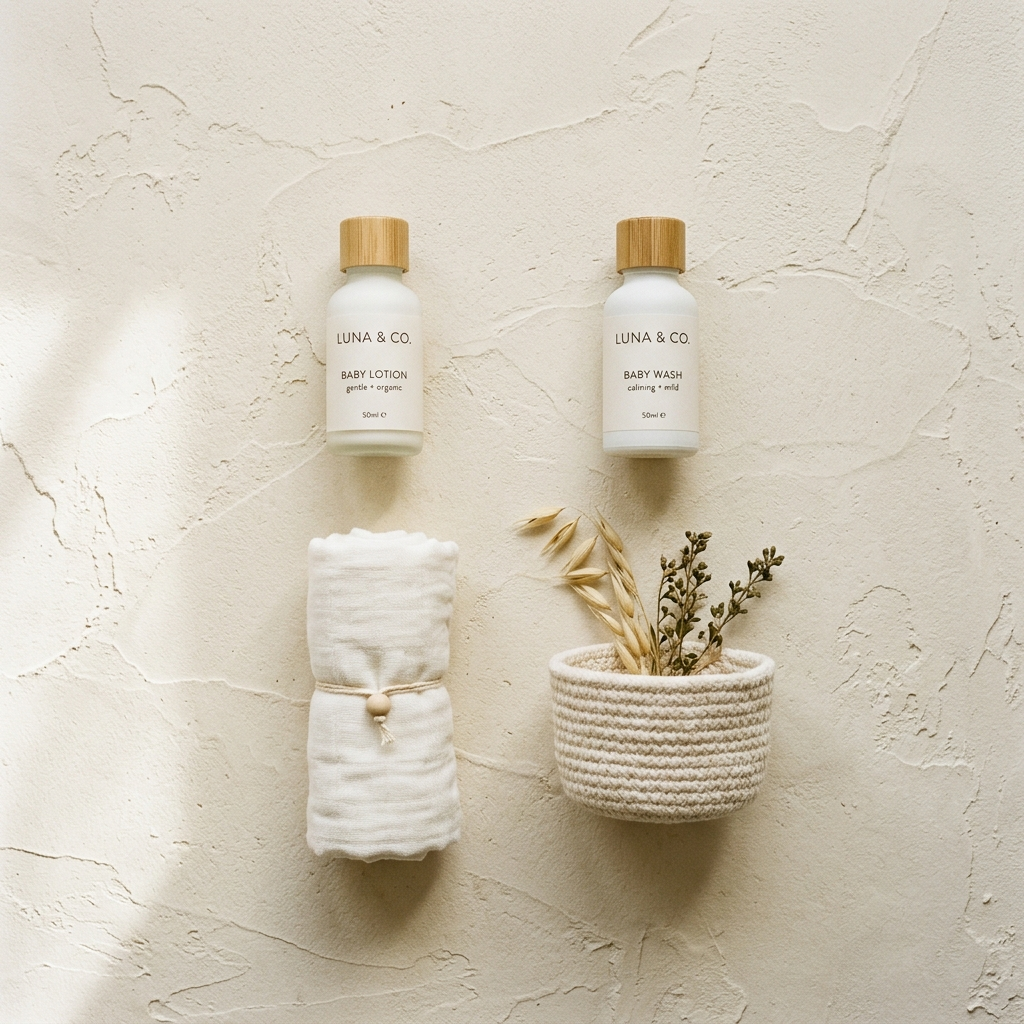
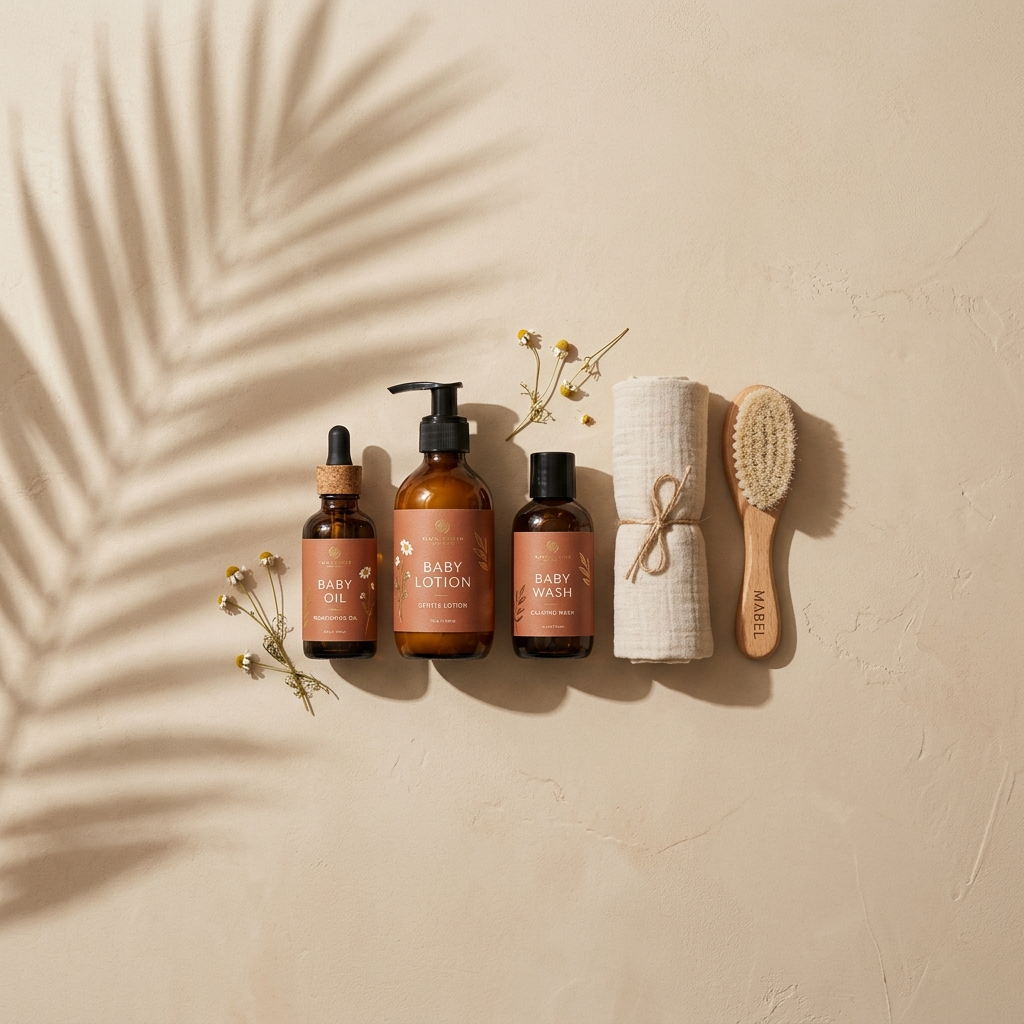
feat: implement product display sections and add new collection assets

diff --git a/src/app/components/kids-shoes-section/kids-shoes-section.component.ts b/src/app/components/kids-shoes-section/kids-shoes-section.component.ts
@@ -14,64 +14,42 @@ import { resolveImageUrl } from '../../core/utils/image-resolver';
   imports: [CommonModule, RouterModule],
   template: `
     <section
-      class="w-full bg-[#FAF6F0] border-t border-[#E8DDD0] py-6 flex items-center justify-center z-10 overflow-hidden select-none"
+      id="kids-shoes"
+      class="relative w-full py-6 px-6 md:px-12 lg:px-24 z-10 overflow-hidden bg-transparent"
     >
-      <div class="w-full px-6 md:px-12">
-        <div class="bb-trust">
+      <div class="w-full section-container relative z-10">
+        
+        <!-- Wide Expansive Banner Panel with full-bleed background -->
+        <div class="bb-strip shadow-2xl overflow-hidden group">
+          <!-- Parallax & Hover Zoom background image -->
+          <div 
+            class="bb-strip-bg absolute inset-0 z-0 bg-cover bg-center transition-transform duration-700 ease-out group-hover:scale-105" 
+            style="background-image: url('/products/kids_shoes_collection_perfect.png');"
+          ></div>
           
-          <!-- Item 1: Fast & Reliable Delivery -->
-          <div class="bb-trust-item">
-            <div class="bb-trust-icon">
-              <svg class="w-3.5 h-3.5 text-[#C4633A]" fill="none" stroke="currentColor" stroke-width="1.6" viewBox="0 0 24 24" xmlns="http://www.w3.org/2000/svg">
-                <path stroke-linecap="round" stroke-linejoin="round" d="M8.25 18.75a1.5 1.5 0 01-3 0m3 0a1.5 1.5 0 00-3 0m3 0h6m-9 0H3.375a1.125 1.125 0 01-1.125-1.125V14.25m17.25 4.5a1.5 1.5 0 01-3 0m3 0a1.5 1.5 0 00-3 0m3 0h1.125c.621 0 1.129-.504 1.09-1.124a17.902 17.902 0 00-3.213-9.193 2.056 2.056 0 00-1.58-.86H14.25M16.5 18.75h-2.25m0-11.177v11.177m0-11.177h-1.197a1.875 1.875 0 00-1.582.805l-3 4.2a1.875 1.875 0 00-.281.932v4.062a1.125 1.125 0 001.125 1.125H9.75M8.25 14.25h1.5M16.5 14.25h1.5" />
-              </svg>
-            </div>
-            <div>
-              <p class="bb-trust-title">Fast &amp; Reliable Delivery</p>
-              <p class="bb-trust-sub">Across Egypt</p>
-            </div>
+          <div class="bb-strip-content z-20">
+            <span class="bb-label">Collection / Kids Active</span>
+            <h2 class="bb-h2 bb-serif">Active <br/>&amp; Play</h2>
+            <p class="bb-tagline">Lightweight, ergonomic support for little feet in motion.</p>
+            <a 
+              [routerLink]="['/products']" 
+              [queryParams]="{ target: 'Kids', subcategory: 'shoes' }"
+              class="bb-link"
+            >
+              <span>Explore Kids</span>
+              <span>→</span>
+            </a>
           </div>
 
-          <!-- Item 2: Premium Quality -->
-          <div class="bb-trust-item">
-            <div class="bb-trust-icon">
-              <svg class="w-3.5 h-3.5 text-[#C4633A]" fill="none" stroke="currentColor" stroke-width="1.6" viewBox="0 0 24 24" xmlns="http://www.w3.org/2000/svg">
-                <path stroke-linecap="round" stroke-linejoin="round" d="M9 12.75L11.25 15 15 9.75M21 12c0 1.268-.63 2.39-1.593 3.068a3.745 3.745 0 01-1.043 3.296 3.745 3.745 0 01-3.296 1.043A3.745 3.745 0 0110 21c-1.268 0-2.39-.63-3.068-1.593a3.746 3.746 0 01-3.296-1.043 3.745 3.745 0 01-1.043-3.296A3.745 3.745 0 013 12c0-1.268.63-2.39 1.593-3.068a3.745 3.745 0 011.043-3.296 3.746 3.746 0 013.296-1.043A3.746 3.746 0 0112 3c1.268 0 2.39.63 3.068 1.593a3.746 3.746 0 013.296 1.043 3.746 3.746 0 011.043 3.296A3.745 3.745 0 0121 12z" />
-              </svg>
-            </div>
-            <div>
-              <p class="bb-trust-title">Premium Quality</p>
-              <p class="bb-trust-sub">Curated with care</p>
-            </div>
-          </div>
-
-          <!-- Item 3: Safe for Your Little One -->
-          <div class="bb-trust-item">
-            <div class="bb-trust-icon">
-              <svg class="w-3.5 h-3.5 text-[#C4633A]" fill="none" stroke="currentColor" stroke-width="1.6" viewBox="0 0 24 24" xmlns="http://www.w3.org/2000/svg">
-                <path stroke-linecap="round" stroke-linejoin="round" d="M9 12.75L11.25 15 15 9.75m-3-7.036A11.959 11.959 0 013.598 6 11.99 11.99 0 003 9.749c0 5.592 3.824 10.29 9 11.623 5.176-1.332 9-6.03 9-11.622 0-1.31-.21-2.57-.599-3.75A11.952 11.952 0 0112 2.744z" />
-              </svg>
-            </div>
-            <div>
-              <p class="bb-trust-title">Safe for Your Little One</p>
-              <p class="bb-trust-sub">Trusted &amp; tested</p>
-            </div>
-          </div>
-
-          <!-- Item 4: Easy Returns -->
-          <div class="bb-trust-item">
-            <div class="bb-trust-icon">
-              <svg class="w-3.5 h-3.5 text-[#C4633A]" fill="none" stroke="currentColor" stroke-width="1.6" viewBox="0 0 24 24" xmlns="http://www.w3.org/2000/svg">
-                <path stroke-linecap="round" stroke-linejoin="round" d="M20.25 7.5l-.625 10.632a2.25 2.25 0 01-2.247 2.118H6.622a2.25 2.25 0 01-2.247-2.118L3.75 7.5M10 11.25h4M3.375 7.5h17.25c.621 0 1.125-.504 1.125-1.125v-1.5c0-.621-.504-1.125-1.125-1.125H3.375c-.621 0-1.125.504-1.125 1.125v1.5c0 .621.504 1.125 1.125 1.125z" />
-              </svg>
-            </div>
-            <div>
-              <p class="bb-trust-title">Easy Returns</p>
-              <p class="bb-trust-sub">Hassle-free</p>
-            </div>
+          <div class="bb-disc-badge z-20">
+            <span class="bb-disc-up">Kids</span>
+            <span class="bb-disc-pct">PLAY</span>
+            <span class="bb-disc-off">Active</span>
+            <span class="text-[11px] text-[#C4633A] mt-0.5 block">⚡</span>
           </div>
 
         </div>
+
       </div>
     </section>
   `,
@@ -80,29 +58,59 @@ import { resolveImageUrl } from '../../core/utils/image-resolver';
       display: block;
       width: 100%;
     }
-    .bb-trust { 
-      display: grid; 
-      grid-template-columns: repeat(4, 1fr); 
-      gap: 16px; 
-      background: transparent;
+    .bb-strip {
+      position: relative; width: 100%; min-height: 280px; overflow: hidden;
+      display: flex; align-items: center;
+      border-radius: 2.5rem;
+      border: 0.5px solid #E8DDD0;
     }
+    .bb-strip-bg {
+      position: absolute;
+      top: -15%;
+      bottom: -15%;
+      left: 0;
+      right: 0;
+      background-size: cover;
+      background-position: center;
+    }
+    .bb-strip-content { position: relative; z-index: 2; padding: 48px 52px; }
     @media (max-width: 768px) {
-      .bb-trust {
-        grid-template-columns: 1fr 1fr;
-        gap: 16px;
+      .bb-strip-content {
+        padding: 32px 24px;
       }
     }
-    .bb-trust-item { display: flex; align-items: center; gap: 10px; }
-    .bb-trust-icon { 
-      width: 32px; height: 32px; 
-      background: #EDD9C8; 
-      border-radius: 50%; 
-      display: flex; align-items: center; justify-content: center; 
-      flex-shrink: 0; 
-      border: 0.5px solid rgba(196,177,152,0.4);
+    .bb-label { font-size: 10px; letter-spacing: 0.18em; text-transform: uppercase; color: #C4633A; font-weight: 600; margin-bottom: 8px; display: block; }
+    .bb-serif { font-family: 'Playfair Display', 'Cormorant Garamond', serif; }
+    .bb-h2 { font-size: 32px; font-weight: 600; line-height: 1.15; margin-bottom: 8px; color: #2E2118; text-transform: uppercase; }
+    @media (max-width: 768px) {
+      .bb-h2 {
+        font-size: 24px;
+      }
     }
-    .bb-trust-title { font-size: 10.5px; font-weight: 500; color: #2E2118; margin: 0; line-height: 1.3; }
-    .bb-trust-sub { font-size: 9px; color: #8C7B6B; margin: 0; font-weight: 300; }
+    .bb-tagline { font-size: 12px; color: #8C7B6B; margin-bottom: 16px; font-weight: 300; max-width: 320px; }
+    .bb-link { font-size: 10px; text-transform: uppercase; letter-spacing: 0.14em; color: #C4633A; font-weight: 600; cursor: pointer; border: none; background: none; font-family: 'Inter',sans-serif; padding: 0; display: inline-flex; align-items: center; gap: 4px; text-decoration: none; border-bottom: 1px solid transparent; transition: all 0.3s; }
+    .bb-link:hover { border-bottom-color: #C4633A; }
+    
+    .bb-disc-badge {
+      position: absolute; right: 52px; top: 50%; transform: translateY(-50%); z-index: 3;
+      background: rgba(250,246,240,0.9); border: 0.5px solid #E8DDD0; border-radius: 20px;
+      padding: 16px 20px; text-align: center; min-width: 90px;
+      box-shadow: 0 10px 30px rgba(150,110,80,0.08);
+    }
+    @media (max-width: 768px) {
+      .bb-disc-badge {
+        position: relative;
+        right: auto;
+        top: auto;
+        transform: none;
+        margin-left: 24px;
+        margin-bottom: 24px;
+        display: inline-block;
+      }
+    }
+    .bb-disc-up { font-size: 8px; text-transform: uppercase; letter-spacing: 0.1em; color: #8C7B6B; display: block; margin-bottom: 2px; }
+    .bb-disc-pct { font-size: 24px; font-weight: 600; color: #C4633A; font-family: 'Playfair Display', 'Cormorant Garamond', serif; line-height: 1; letter-spacing: 0.05em; }
+    .bb-disc-off { font-size: 8px; text-transform: uppercase; letter-spacing: 0.1em; color: #8C7B6B; display: block; margin-top: 2px; }
   `]
 })
 export class KidsShoesSectionComponent implements OnInit {
@@ -112,6 +120,13 @@ export class KidsShoesSectionComponent implements OnInit {
   private productService = inject(ProductService);
 
   ngOnInit(): void {
-    this.productService.getProducts({ pageSize: 10 }).subscribe();
+    this.productService.getProducts({ pageSize: 100 }).subscribe(res => {
+      if (res.isSuccess && res.data && res.data.items) {
+        this.sneakerProduct = res.data.items.find(p => 
+          p.mainCategory?.toLowerCase() === 'kids' && 
+          p.subCategory?.toLowerCase() === 'shoes'
+        );
+      }
+    });
   }
 }

diff --git a/src/app/components/storefront-landing/storefront-landing.component.ts b/src/app/components/storefront-landing/storefront-landing.component.ts
@@ -37,6 +37,67 @@ gsap.registerPlugin(ScrollTrigger);
       <app-clothing-section class="w-full"></app-clothing-section>
       
       <app-kids-shoes-section class="w-full"></app-kids-shoes-section>
+
+      <!-- Trust Benefits Strip -->
+      <section class="w-full bg-[#FAF6F0] border-t border-[#E8DDD0] py-12 flex items-center justify-center z-10 overflow-hidden select-none pointer-events-auto">
+        <div class="w-full px-6 md:px-12 lg:px-24">
+          <div class="bb-trust grid grid-cols-1 sm:grid-cols-2 lg:grid-cols-4 gap-8">
+            
+            <!-- Item 1: Fast & Reliable Delivery -->
+            <div class="bb-trust-item flex items-center gap-4">
+              <div class="bb-trust-icon w-10 h-10 bg-[#EDD9C8] rounded-full flex items-center justify-center flex-shrink-0 border border-[#E8DDD0]">
+                <svg class="w-5 h-5 text-[#C4633A]" fill="none" stroke="currentColor" stroke-width="1.6" viewBox="0 0 24 24" xmlns="http://www.w3.org/2000/svg">
+                  <path stroke-linecap="round" stroke-linejoin="round" d="M8.25 18.75a1.5 1.5 0 01-3 0m3 0a1.5 1.5 0 00-3 0m3 0h6m-9 0H3.375a1.125 1.125 0 01-1.125-1.125V14.25m17.25 4.5a1.5 1.5 0 01-3 0m3 0a1.5 1.5 0 00-3 0m3 0h1.125c.621 0 1.129-.504 1.09-1.124a17.902 17.902 0 00-3.213-9.193 2.056 2.056 0 00-1.58-.86H14.25M16.5 18.75h-2.25m0-11.177v11.177m0-11.177h-1.197a1.875 1.875 0 00-1.582.805l-3 4.2a1.875 1.875 0 00-.281.932v4.062a1.125 1.125 0 001.125 1.125H9.75M8.25 14.25h1.5M16.5 14.25h1.5" />
+                </svg>
+              </div>
+              <div>
+                <p class="bb-trust-title font-bold text-[10.5px] text-[#2E2118] uppercase tracking-wide">Fast &amp; Reliable Delivery</p>
+                <p class="bb-trust-sub text-[9px] text-[#8C7B6B] font-light">Across Egypt</p>
+              </div>
+            </div>
+
+            <!-- Item 2: Premium Quality -->
+            <div class="bb-trust-item flex items-center gap-4">
+              <div class="bb-trust-icon w-10 h-10 bg-[#EDD9C8] rounded-full flex items-center justify-center flex-shrink-0 border border-[#E8DDD0]">
+                <svg class="w-5 h-5 text-[#C4633A]" fill="none" stroke="currentColor" stroke-width="1.6" viewBox="0 0 24 24" xmlns="http://www.w3.org/2000/svg">
+                  <path stroke-linecap="round" stroke-linejoin="round" d="M9 12.75L11.25 15 15 9.75M21 12c0 1.268-.63 2.39-1.593 3.068a3.745 3.745 0 01-1.043 3.296 3.745 3.745 0 01-3.296 1.043A3.745 3.745 0 0110 21c-1.268 0-2.39-.63-3.068-1.593a3.746 3.746 0 01-3.296-1.043 3.745 3.745 0 01-1.043-3.296A3.745 3.745 0 013 12c0-1.268.63-2.39 1.593-3.068a3.745 3.745 0 011.043-3.296 3.746 3.746 0 013.296-1.043A3.746 3.746 0 0112 3c1.268 0 2.39.63 3.068 1.593a3.746 3.746 0 013.296 1.043 3.746 3.746 0 011.043 3.296A3.745 3.745 0 0121 12z" />
+                </svg>
+              </div>
+              <div>
+                <p class="bb-trust-title font-bold text-[10.5px] text-[#2E2118] uppercase tracking-wide">Premium Quality</p>
+                <p class="bb-trust-sub text-[9px] text-[#8C7B6B] font-light">Curated with care</p>
+              </div>
+            </div>
+
+            <!-- Item 3: Safe for Your Little One -->
+            <div class="bb-trust-item flex items-center gap-4">
+              <div class="bb-trust-icon w-10 h-10 bg-[#EDD9C8] rounded-full flex items-center justify-center flex-shrink-0 border border-[#E8DDD0]">
+                <svg class="w-5 h-5 text-[#C4633A]" fill="none" stroke="currentColor" stroke-width="1.6" viewBox="0 0 24 24" xmlns="http://www.w3.org/2000/svg">
+                  <path stroke-linecap="round" stroke-linejoin="round" d="M9 12.75L11.25 15 15 9.75m-3-7.036A11.959 11.959 0 013.598 6 11.99 11.99 0 003 9.749c0 5.592 3.824 10.29 9 11.623 5.176-1.332 9-6.03 9-11.622 0-1.31-.21-2.57-.599-3.75A11.952 11.952 0 0112 2.744z" />
+                </svg>
+              </div>
+              <div>
+                <p class="bb-trust-title font-bold text-[10.5px] text-[#2E2118] uppercase tracking-wide">Safe for Your Little One</p>
+                <p class="bb-trust-sub text-[9px] text-[#8C7B6B] font-light">Trusted &amp; tested</p>
+              </div>
+            </div>
+
+            <!-- Item 4: Easy Returns -->
+            <div class="bb-trust-item flex items-center gap-4">
+              <div class="bb-trust-icon w-10 h-10 bg-[#EDD9C8] rounded-full flex items-center justify-center flex-shrink-0 border border-[#E8DDD0]">
+                <svg class="w-5 h-5 text-[#C4633A]" fill="none" stroke="currentColor" stroke-width="1.6" viewBox="0 0 24 24" xmlns="http://www.w3.org/2000/svg">
+                  <path stroke-linecap="round" stroke-linejoin="round" d="M20.25 7.5l-.625 10.632a2.25 2.25 0 01-2.247 2.118H6.622a2.25 2.25 0 01-2.247-2.118L3.75 7.5M10 11.25h4M3.375 7.5h17.25c.621 0 1.125-.504 1.125-1.125v-1.5c0-.621-.504-1.125-1.125-1.125H3.375c-.621 0-1.125.504-1.125 1.125v1.5c0 .621.504 1.125 1.125 1.125z" />
+                </svg>
+              </div>
+              <div>
+                <p class="bb-trust-title font-bold text-[10.5px] text-[#2E2118] uppercase tracking-wide">Easy Returns</p>
+                <p class="bb-trust-sub text-[9px] text-[#8C7B6B] font-light">Hassle-free</p>
+              </div>
+            </div>
+
+          </div>
+        </div>
+      </section>
     </div>
   `
 })
@@ -189,8 +250,56 @@ export class StorefrontLandingComponent implements OnInit, AfterViewInit {
         }
       );
 
-      // 4. Trust Items (Kids Shoes Section) Staggered Reveal
-      gsap.fromTo('app-kids-shoes-section .bb-trust-item',
+      // 4. Kids Shoes Section Wide Strip Entrance & Parallax Background
+      gsap.fromTo('app-kids-shoes-section .bb-strip',
+        { y: 60, opacity: 0, scale: 0.97 },
+        {
+          y: 0,
+          opacity: 1,
+          scale: 1,
+          duration: 1.2,
+          ease: 'power3.out',
+          scrollTrigger: {
+            trigger: 'app-kids-shoes-section',
+            start: 'top 85%',
+            toggleActions: 'play none none none'
+          }
+        }
+      );
+
+      gsap.fromTo('app-kids-shoes-section .bb-strip-bg',
+        { yPercent: -12 },
+        {
+          yPercent: 12,
+          ease: 'none',
+          scrollTrigger: {
+            trigger: 'app-kids-shoes-section',
+            start: 'top bottom',
+            end: 'bottom top',
+            scrub: true
+          }
+        }
+      );
+
+      gsap.fromTo('app-kids-shoes-section .bb-disc-badge',
+        { scale: 0.3, opacity: 0, rotation: -12 },
+        {
+          scale: 1,
+          opacity: 1,
+          rotation: 0,
+          duration: 1.4,
+          ease: 'elastic.out(1, 0.75)',
+          delay: 0.25,
+          scrollTrigger: {
+            trigger: 'app-kids-shoes-section',
+            start: 'top 80%',
+            toggleActions: 'play none none none'
+          }
+        }
+      );
+
+      // 5. Trust Items Staggered Reveal at the bottom
+      gsap.fromTo('.bb-trust .bb-trust-item',
         { y: 30, opacity: 0 },
         {
           y: 0,
@@ -199,7 +308,7 @@ export class StorefrontLandingComponent implements OnInit, AfterViewInit {
           stagger: 0.15,
           ease: 'power2.out',
           scrollTrigger: {
-            trigger: 'app-kids-shoes-section',
+            trigger: '.bb-trust',
             start: 'top 90%',
             toggleActions: 'play none none none'
           }

diff --git a/src/app/components/bags-shoes-section/bags-shoes-section.component.ts b/src/app/components/bags-shoes-section/bags-shoes-section.component.ts
@@ -24,7 +24,7 @@ import { resolveImageUrl } from '../../core/utils/image-resolver';
           <!-- Parallax & Hover Zoom background image -->
           <div 
             class="bb-strip-bg absolute inset-0 z-0 bg-cover bg-center transition-transform duration-700 ease-out group-hover:scale-105" 
-            style="background-image: url('/products/little_one_collection_perfect.jpg');"
+            style="background-image: url('/products/little_one_collection_perfect.png');"
           ></div>
           
           <div class="bb-strip-content z-20">

diff --git a/src/app/components/clothing-section/clothing-section.component.ts b/src/app/components/clothing-section/clothing-section.component.ts
@@ -27,7 +27,7 @@ import { resolveImageUrl } from '../../core/utils/image-resolver';
             <!-- Background Image Wrapper for Zoom -->
             <div 
               class="bb-cell-bg absolute inset-0 z-0 bg-cover bg-center transition-transform duration-700 ease-out group-hover:scale-105" 
-              style="background-image: url('/products/women_collection_perfect.jpg');"
+              style="background-image: url('/products/women_collection_perfect.png');"
             ></div>
             <div class="bb-cell-overlay z-10"></div>
             <div class="bb-cell-content z-20">

diff --git a/src/styles.css b/src/styles.css
@@ -546,7 +546,7 @@ body.intro-running header {
 
 /* Storefront Unified Continuous Canvas Background */
 .storefront-unified-canvas {
-  background-image: url('/products/editorial_page_bg_canvas.jpg');
+  background-image: url('/products/editorial_page_bg_canvas.png');
   background-position: top center;
   background-repeat: no-repeat;
   background-size: cover;